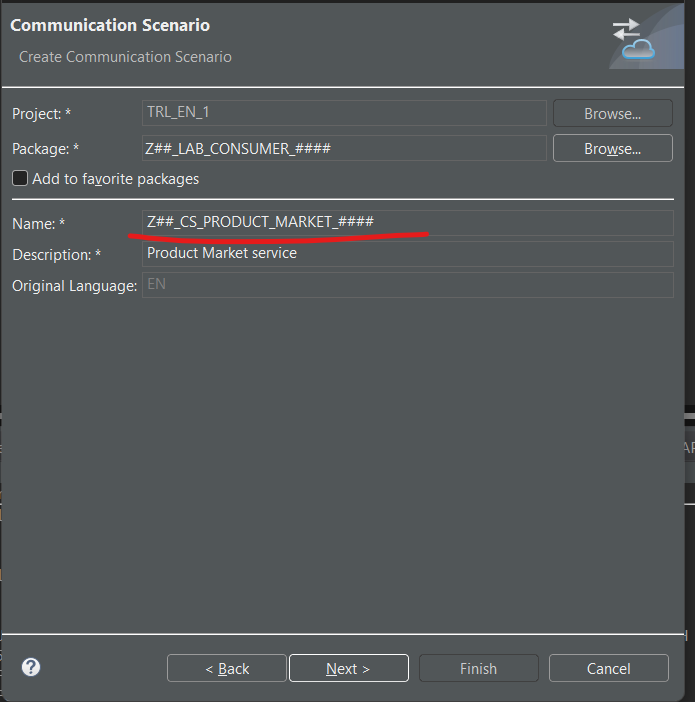
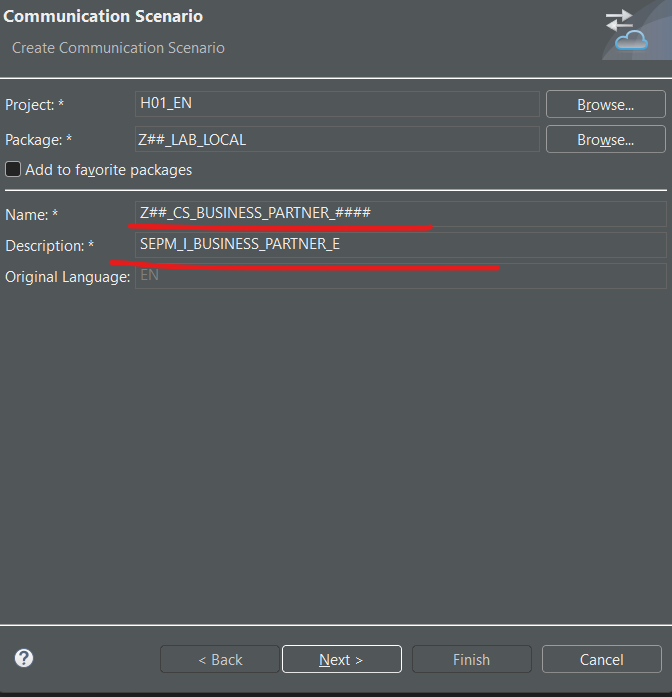
update notes and documentation for 10th iteration; add new images and enhance explanations for outbound service setup

Changed region(s): [[0.0, 0.0, 1.0, 0.6628], [0.0, 0.693, 1.0, 1.0], [0.6562, 0.934, 0.75, 0.9641]]

diff --git a/10th_iteration/09_others.md b/10th_iteration/09_others.md
@@ -53,7 +53,7 @@ CLASS z##_cl_consumer_without_#### IMPLEMENTATION.
                                                                   proxy_model_id      = 'Z##_CM_PRODUCT_MARKET_####'
                                                                   proxy_model_version = '0001' )
                               io_http_client           = lo_http_client
-                              iv_relative_service_root = '/sap/opu/odata4/sap/zok_wapi_product_o4/srvd_a2x/sap/zok_wapi_product_0001/0001/' ).
+                              iv_relative_service_root = '/sap/opu/odata4/sap/z##_wapi_product_o4/srvd_a2x/sap/z##_wapi_product_####/####/' ).
 
         ASSERT lo_http_client IS BOUND.
 
@@ -90,6 +90,94 @@ CLASS z##_cl_consumer_without_#### IMPLEMENTATION.
 
       CATCH cx_http_dest_provider_error.
         "handle exception
+    ENDTRY.
+  ENDMETHOD.
+ENDCLASS.
+```
+
+## Consumer class without Outbound Service
+<a name="z##_cl_consumer_with_"></a>
+
+```ABAP
+CLASS z##_cl_consumer_with_#### DEFINITION
+  PUBLIC FINAL
+  CREATE PUBLIC.
+
+  PUBLIC SECTION.
+    INTERFACES if_oo_adt_classrun.
+ENDCLASS.
+
+
+CLASS z##_cl_consumer_with_#### IMPLEMENTATION.
+  METHOD if_oo_adt_classrun~main.
+    DATA lt_business_data TYPE TABLE OF z##_cs_business_partner_####=>tys_sepm_i_business_partner_et.
+    DATA lo_http_client   TYPE REF TO if_web_http_client.
+    DATA lo_client_proxy  TYPE REF TO /iwbep/if_cp_client_proxy.
+    DATA lo_request       TYPE REF TO /iwbep/if_cp_request_read_list.
+    DATA lo_response      TYPE REF TO /iwbep/if_cp_response_read_lst.
+
+*DATA:
+* lo_filter_factory   TYPE REF TO /iwbep/if_cp_filter_factory,
+* lo_filter_node_1    TYPE REF TO /iwbep/if_cp_filter_node,
+* lo_filter_node_2    TYPE REF TO /iwbep/if_cp_filter_node,
+* lo_filter_node_root TYPE REF TO /iwbep/if_cp_filter_node,
+* lt_range_BUSINESS_PARTNER TYPE RANGE OF <element_name>,
+* lt_range_BUSINESS_PARTNER_ROLE TYPE RANGE OF <element_name>.
+
+    TRY.
+        " Create http client
+        DATA(lo_destination) = cl_http_destination_provider=>create_by_comm_arrangement(
+                                   comm_scenario  = 'Z##_CS_BUSINESS_PARTNER_####'
+                                   comm_system_id = 'Z##_BP_COMM_SYS_####'
+                                   service_id     = 'Z##_BUSINESS_PARTNER_####_REST' ).
+        lo_http_client = cl_web_http_client_manager=>create_by_http_destination( lo_destination ).
+        lo_client_proxy = /iwbep/cl_cp_factory_remote=>create_v2_remote_proxy(
+                              is_proxy_model_key       = VALUE #( repository_id       = 'DEFAULT'
+                                                                  proxy_model_id      = 'Z##_CS_BUSINESS_PARTNER_####'
+                                                                  proxy_model_version = '0001' )
+                              io_http_client           = lo_http_client
+                              iv_relative_service_root = '' ).
+
+        ASSERT lo_http_client IS BOUND.
+
+        " Navigate to the resource and create a request for the read operation
+        lo_request = lo_client_proxy->create_resource_for_entity_set( 'SEPM_I_BUSINESS_PARTNER_E' )->create_request_for_read( ).
+
+        " Create the filter tree
+*lo_filter_factory = lo_request->create_filter_factory( ).
+*
+*lo_filter_node_1  = lo_filter_factory->create_by_range( iv_property_path     = 'BUSINESS_PARTNER'
+*                                                        it_range             = lt_range_BUSINESS_PARTNER ).
+*lo_filter_node_2  = lo_filter_factory->create_by_range( iv_property_path     = 'BUSINESS_PARTNER_ROLE'
+*                                                        it_range             = lt_range_BUSINESS_PARTNER_ROLE ).
+
+*lo_filter_node_root = lo_filter_node_1->and( lo_filter_node_2 ).
+*lo_request->set_filter( lo_filter_node_root ).
+
+        lo_request->set_top( 50 )->set_skip( 0 ).
+
+        " Execute the request and retrieve the business data
+        lo_response = lo_request->execute( ).
+        lo_response->get_business_data( IMPORTING et_business_data = lt_business_data ).
+
+        out->write( lt_business_data ).
+
+      CATCH /iwbep/cx_cp_remote INTO DATA(lx_remote).
+        " Handle remote Exception
+        " It contains details about the problems of your http(s) connection
+        out->write( lx_remote->get_longtext( ) ).
+
+      CATCH /iwbep/cx_gateway INTO DATA(lx_gateway).
+        " Handle Exception
+        out->write( lx_gateway->get_longtext( ) ).
+
+      CATCH cx_web_http_client_error INTO DATA(lx_web_http_client_error).
+        " Handle Exception
+        RAISE SHORTDUMP lx_web_http_client_error.
+
+      CATCH cx_http_dest_provider_error INTO DATA(lx_http_dest_provider_error).
+        " handle exception
+        out->write( lx_http_dest_provider_error->get_longtext( ) ).
     ENDTRY.
   ENDMETHOD.
 ENDCLASS.

diff --git a/10th_iteration/notes.md b/10th_iteration/notes.md
@@ -47,11 +47,12 @@ Pay attention, Inbound and Outbound Services should be created in different syst
   ![inbound_system](./inbound_system_4.png)
   ![inbound_system](./inbound_system_5.png)
   ![inbound_system](./inbound_system_5.png)
-  ![inbound_system](./inbound_system_7.png)6
+  ![inbound_system](./inbound_system_7.png)
   - Create Communication Arrangement
   ![inbound_arrangement](./inbound_arrangement_1.png)
   ![inbound_arrangement](./inbound_arrangement_2.png)
   ![inbound_arrangement](./inbound_arrangement_3.png)
+  ![inbound_arrangement](./inbound_arrangement_4.png)
   - Download Service Metadata File
   ![inbound_arrangement](./inbound_arrangement_4.png)
 
@@ -90,21 +91,40 @@ Pay attention, Inbound and Outbound Services should be created in different syst
   - Create Outbound Service
   ![outbound_service](./outbound_service_1.png)
   ![outbound_service](./outbound_service_2.png)
-  ![outbound_service](./outbound_service_3.png)
   - Create Communication Scenario
   ![outbound_communication](./outbound_communication_scenario_1.png)
   ![outbound_communication](./outbound_communication_scenario_2.png)
   ![outbound_communication](./outbound_communication_scenario_3.png)
+- Next steps you should do in Abap Instance UI in Administration tab, so it's impossible on trial account :(
+  - Create Communication System
+  ![outbound_system](./outbound_system_1.png)
+  ![outbound_system](./outbound_system_2.png)
+  ![outbound_system](./outbound_system_3.png)
+  ![outbound_system](./outbound_system_4.png)
+  - Create Communication Arrangement
+  ![inbound_arrangement](./outbound_arrangement_1.png)
+  ![inbound_arrangement](./outbound_arrangement_2.png)
+  ![inbound_arrangement](./outbound_arrangement_3.png)
+  - **[Download metadata](https://sapes5.sapdevcenter.com/sap/opu/odata/sap/ZE2E100_SOL_2_SRV/$metadata)**
+   [Metadata](./ZE2E100_SOL_2_SRV.xml)
+  - Create Service Consumtion Model
+  ![outbound_model](./outbound_model_with_service_1.png)
   - Create class Consumer
   ![outbound_class_with_service](./outbound_class_with_service_1.png)
-  ![outbound_class_with_service](./outbound_class_without_service_2.png)
+  ![outbound_class_with_service](./outbound_class_with_service_2.png)
    ```ABAP
-          " Create http client
-*    DATA(lo_destination) = cl_http_destination_provider=>create_by_comm_arrangement(
-*                                                 comm_scenario  = '<Comm Scenario>'
-*                                                 comm_system_id = '<Comm System Id>'
-*                                                 service_id     = '<Service Id>' ).
-    lo_http_client = cl_web_http_client_manager=>create_by_http_destination( lo_destination ).
+        " Create http client
+        DATA(lo_destination) = cl_http_destination_provider=>create_by_comm_arrangement(
+                                   comm_scenario  = 'Z####_CS_BUSINESS_PARTNER_####'
+                                   comm_system_id = 'Z####_BP_COMM_SYS_####'
+                                   service_id     = 'Z####_BUSINESS_PARTNER_####_REST' ).
+        lo_http_client = cl_web_http_client_manager=>create_by_http_destination( lo_destination ).
+        lo_client_proxy = /iwbep/cl_cp_factory_remote=>create_v2_remote_proxy(
+                              is_proxy_model_key       = VALUE #( repository_id       = 'DEFAULT'
+                                                                  proxy_model_id      = 'Z####_CS_BUSINESS_PARTNER_####'
+                                                                  proxy_model_version = '####' )
+                              io_http_client           = lo_http_client
+                              iv_relative_service_root = '' ).
   ```
 ## Useful links
   [Implement an Outbound Service Call in SAP BTP, ABAP environment for an OData Service via Service Consumption Model](https://developers.sap.com/tutorials/abap-environment-business-partner-outbound-call.html)
